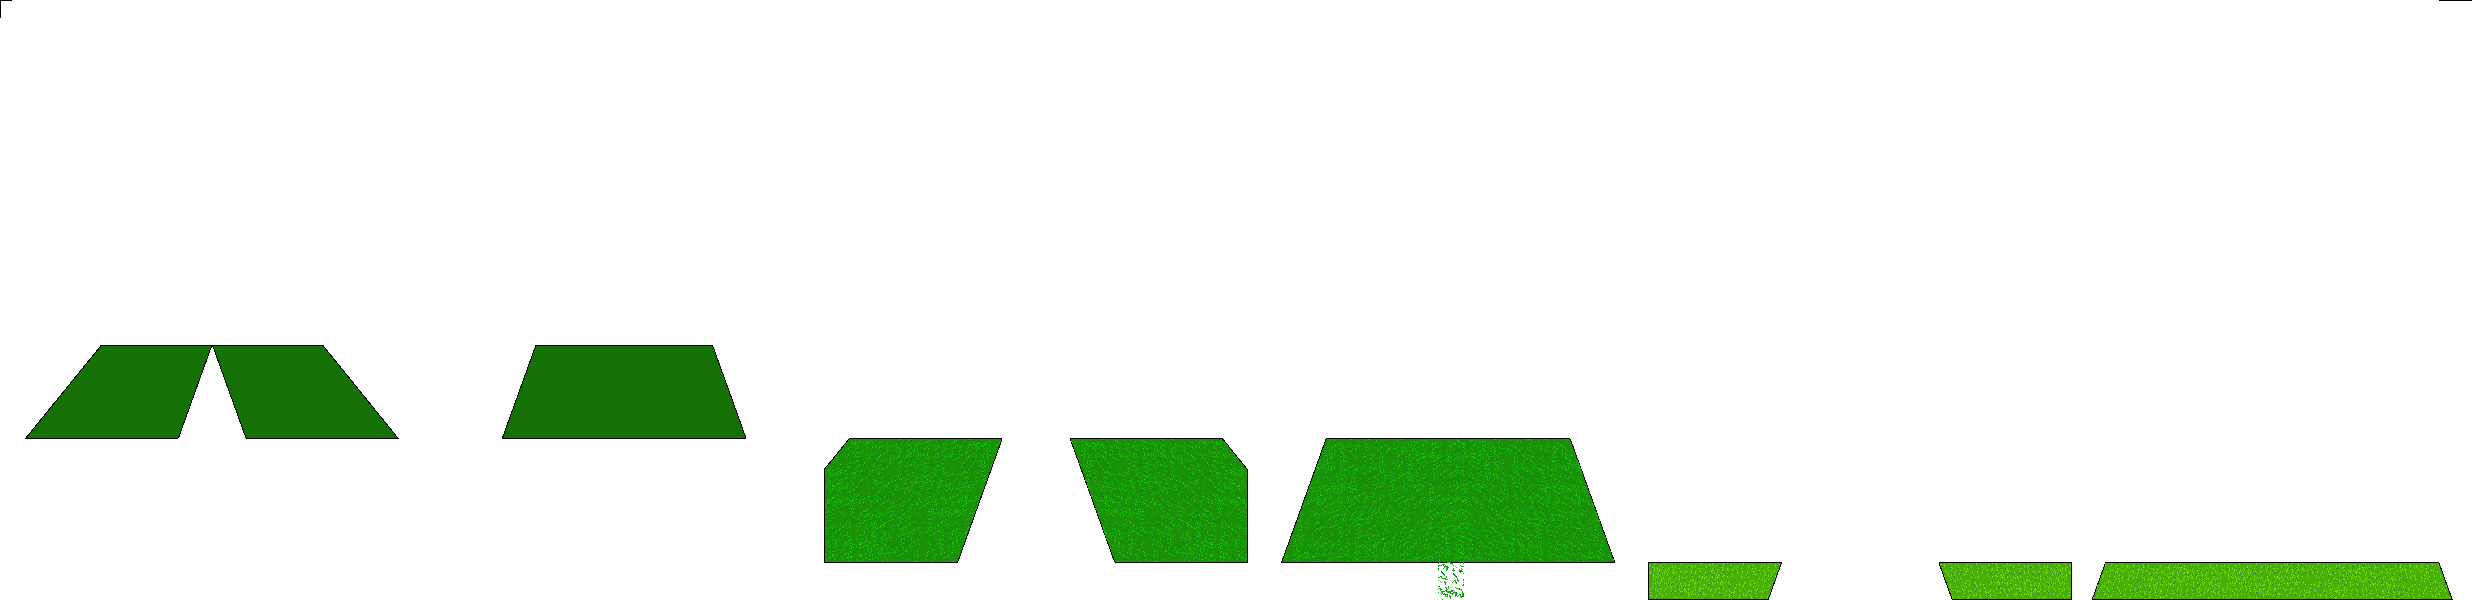
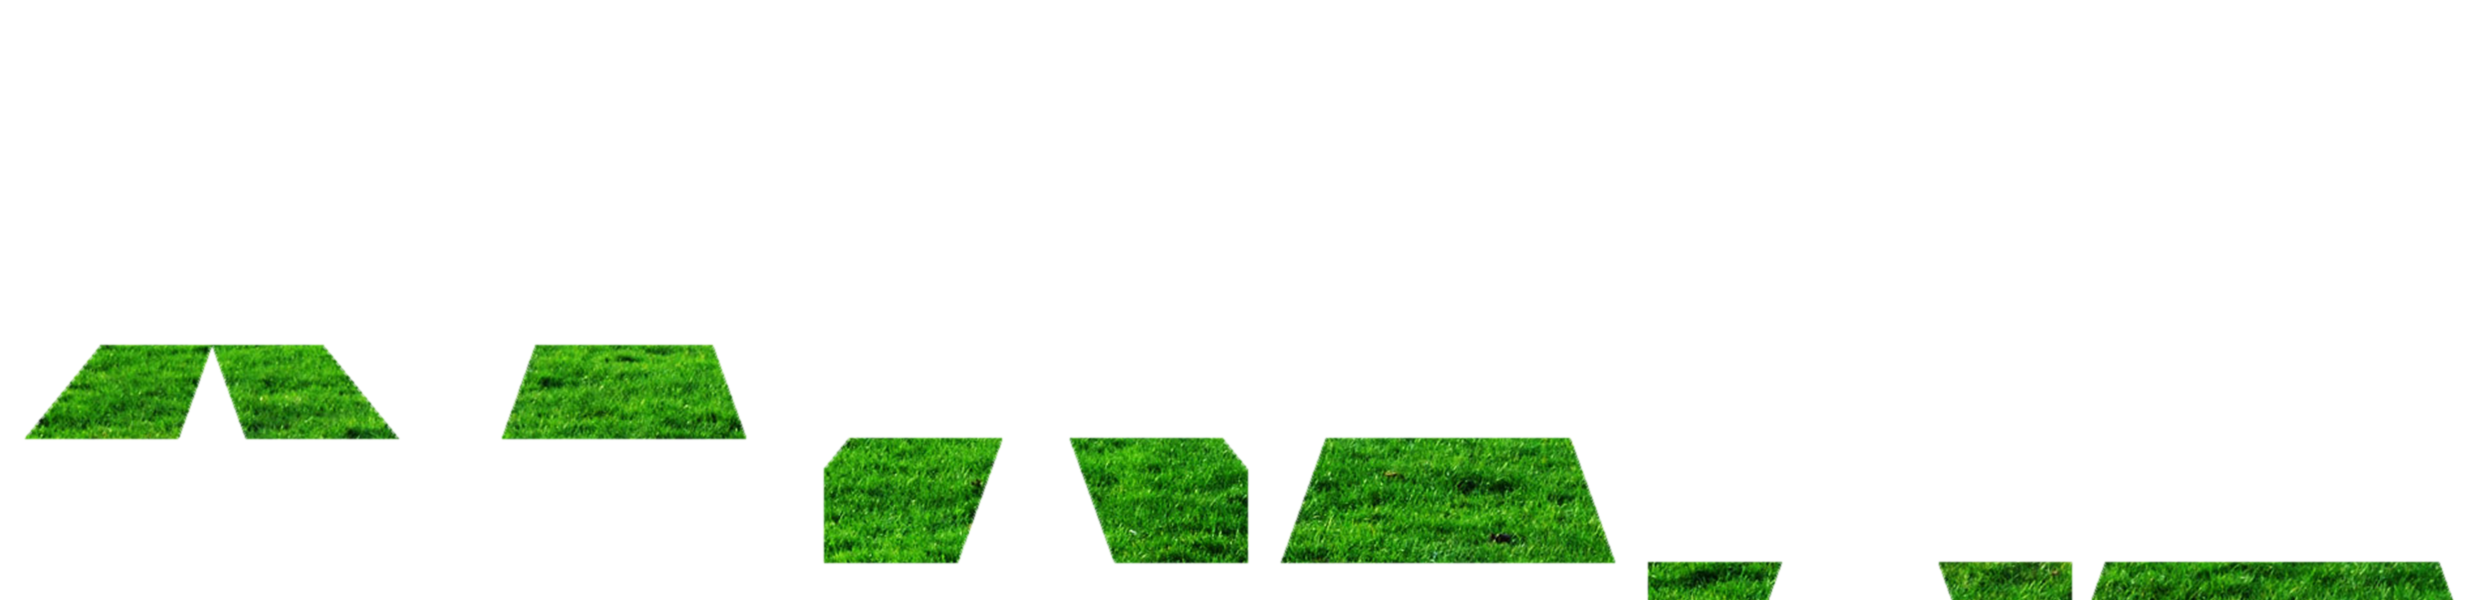
Updated some textures

diff --git a/ui/DungeonCanvas.java b/ui/DungeonCanvas.java
@@ -16,6 +16,8 @@ import javax.swing.JPanel;
 
 import gameWorld.Board;
 import gameWorld.Player;
+import tiles.DoorTile;
+import tiles.StartTile;
 import tiles.Tile;
 
 public class DungeonCanvas extends JPanel{
@@ -32,6 +34,7 @@ public class DungeonCanvas extends JPanel{
 	private Image brick;
 	private Image players;
 	private Image door;
+	private Image back;
 	
 	private int[] imageXPositions = {0, 212, 424, 824, 1036, 1248,
 			1648, 1860, 2072, 2472};
@@ -50,7 +53,7 @@ public class DungeonCanvas extends JPanel{
 		flat = loadImage("placeholder_flat.png");
 		players = loadImage("placeholder_player.png");
 		door = loadImage("placeholder_door.png");
-		
+		back = loadImage("background.png");
 	}
 	
 	
@@ -61,8 +64,17 @@ public class DungeonCanvas extends JPanel{
 
 	@Override
 	public void paint(Graphics g){
-		g.setColor(Color.BLACK);
-		g.fillRect(0,0,getWidth(),getHeight());
+		if((player.getBoard().getTile(player.getPosition().getY(), player.getPosition().getX()).getTileImage().equals("BRICK"))
+				|| (player.getBoard().getTile(player.getPosition().getY(), player.getPosition().getX()) instanceof StartTile)
+				|| (player.getBoard().getTile(player.getPosition().getY(), player.getPosition().getX()) instanceof DoorTile)){
+			g.setColor(Color.BLACK);
+			g.fillRect(0,0,getWidth(),getHeight());
+		}
+		else{
+			back = back.getScaledInstance(600, 600, 0);
+			g.drawImage(back, 0, 0, null);
+		}
+		
 		
 		if(player != null){	
 			rp.updatePerspective();

diff --git a/ui/InventoryPanel.java b/ui/InventoryPanel.java
@@ -10,6 +10,7 @@ import java.io.File;
 import java.io.IOException;
 
 import javax.imageio.ImageIO;
+import javax.swing.AbstractButton;
 import javax.swing.BorderFactory;
 import javax.swing.ImageIcon;
 import javax.swing.JButton;
@@ -18,9 +19,12 @@ import javax.swing.JTextArea;
 import javax.swing.JTextField;
 import javax.swing.JTextPane;
 
+import items.Item;
+
 public class InventoryPanel extends JPanel {
 	JTextField text = new JTextField();
 	JPanel buttonPanel = new JPanel();
+	int nextBut = 0;
 	 public InventoryPanel() {
 	        setBorder(BorderFactory.createLineBorder(Color.black));
 			text.setText("Select inventory item");
@@ -50,6 +54,19 @@ public class InventoryPanel extends JPanel {
 	       
 	        
 		}
+		
+		public void updateButton(Item item){
+			Image img;
+			try {
+				img = ImageIO.read(new File(item.getName()));
+			    img = img.getScaledInstance(100, 120, Image.SCALE_SMOOTH);
+				((AbstractButton) buttonPanel.getComponent(nextBut)).setIcon(new ImageIcon(img));
+			} catch (IOException e) {
+				e.printStackTrace();
+			}
+			nextBut++;
+		}
+		
 		public void addButton(){
 			JButton button = new JButton();
 			button.setPreferredSize(new Dimension(125, 125));

diff --git a/ui/ApplicationWindow.java b/ui/ApplicationWindow.java
@@ -2,6 +2,7 @@ package ui;
 
 import java.awt.BorderLayout;
 import java.awt.Color;
+import java.awt.Component;
 import java.awt.GridLayout;
 import java.awt.event.KeyEvent;
 import java.awt.event.KeyListener;
@@ -15,6 +16,8 @@ import javax.swing.JTextArea;
 import javax.swing.SwingUtilities;
 
 import control.Client;
+import items.Button;
+import items.Item;
 
 public class ApplicationWindow extends JFrame{
 	//private static BoardPanel boardPanel;
@@ -109,6 +112,20 @@ public class ApplicationWindow extends JFrame{
 			//for now pressing d will drop an 'item'
 			else if(code == KeyEvent.VK_D) {
 				client.tellServerAction("DROP", "Key");
+//				for(Item i: client.getPlayer().inven){
+//					if(i.getName().contains("Key")){
+//						for(Component c : inventoryPanel.buttonPanel.getComponents()){
+//								JButton b = (JButton) c;
+//								b.getIcon().toString();
+//
+//								//if(c instaneof JButton){
+//							}
+//						}
+//					}
+//				}
+//				if(){
+//					
+//				}
 			}
 			gameCanvas.repaint();
 			}

diff --git a/gameWorld/GameLogic.java b/gameWorld/GameLogic.java
@@ -125,6 +125,8 @@ public class GameLogic {
 		Item dropit = new Key();
 		switch(item){
 		case "Key": dropit = new Key();
+		case "Key1": dropit = new Key();
+		case "Key2": dropit = new Key();
 		//case "empty": dropit = new empty();
 		}
 		Position playerPos = player.getPosition();
@@ -136,6 +138,7 @@ public class GameLogic {
 //			for(Item i: player.inven){
 //				if(i.getName().equals(item)){
 //					player.inven.remove(i);
+					
 //				}
 //			}
 		}
